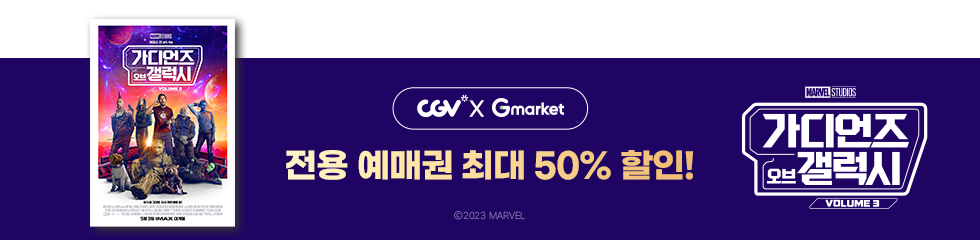
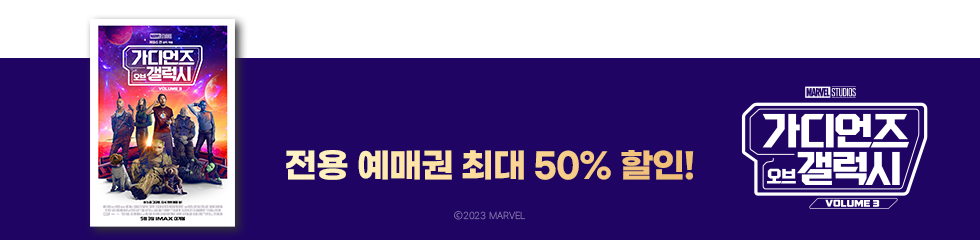
Minkyu

Changed region(s): [[0.398, 0.4083, 0.5816, 0.4958], [0.398, 0.525, 0.5816, 0.5542], [0.398, 0.35, 0.5816, 0.3792]]

diff --git a/index.html b/index.html
@@ -63,18 +63,15 @@
     </div>
 
     <div id="footer">
-        <div topmargin="0" leftmargin="0" marginwidth="0" marginheight="0" style="background-color:transparent"
-            scroll="no">
-            <center>
-                <div class="cgv_cp_ad"
-                    style="background-color:#1f0463;background-image: url(https://adimg.cgv.co.kr/images/bg_temp_foot_banner2021.gif); background-repeat:repeat-x;margin:0 auto">
-                    <div style="width:980px;margin:0 auto"><a
-                            href="http://ad.cgv.co.kr/click/CGV/CGV_201401/main@Bottom?ads_id=49059&amp;creative_id=70545&amp;click_id=90998&amp;content_series=&amp;event="
-                            target="_blank"><img src="http://adimg.cgv.co.kr/images/202305/Gmarket/0427_980x240.png"
-                                alt="광고-G마켓글로벌" border="0"></a></div>
-                </div>
-            </center>
+        <div id="footer_ad">
+            <div style="width:980px;margin:0 auto">
+                <a href="http://ad.cgv.co.kr/click/CGV/CGV_201401/main@Bottom?ads_id=49059&amp;creative_id=70545&amp;click_id=90998&amp;content_series=&amp;event="
+                    target="_blank">
+                    <img src="./img/footer_ad.png" alt="광고-G마켓글로벌">
+                </a>
+            </div>
         </div>
+
         <div id="footer_content">
             <ul id="policy_list">
                 <li><a href="#">회사소개</a></li>

diff --git a/css/footer.css b/css/footer.css
@@ -28,7 +28,7 @@
 
 #footer_ad {
     background-color: #1f0463;
-    background-image: url(https://adimg.cgv.co.kr/images/bg_temp_foot_banner2021.gif);
+    background-image: url(../img/footer_ad_bg.gif);
     background-repeat: repeat-x;
-    margin: 0 auto;
+    margin: 0 auto
 }
